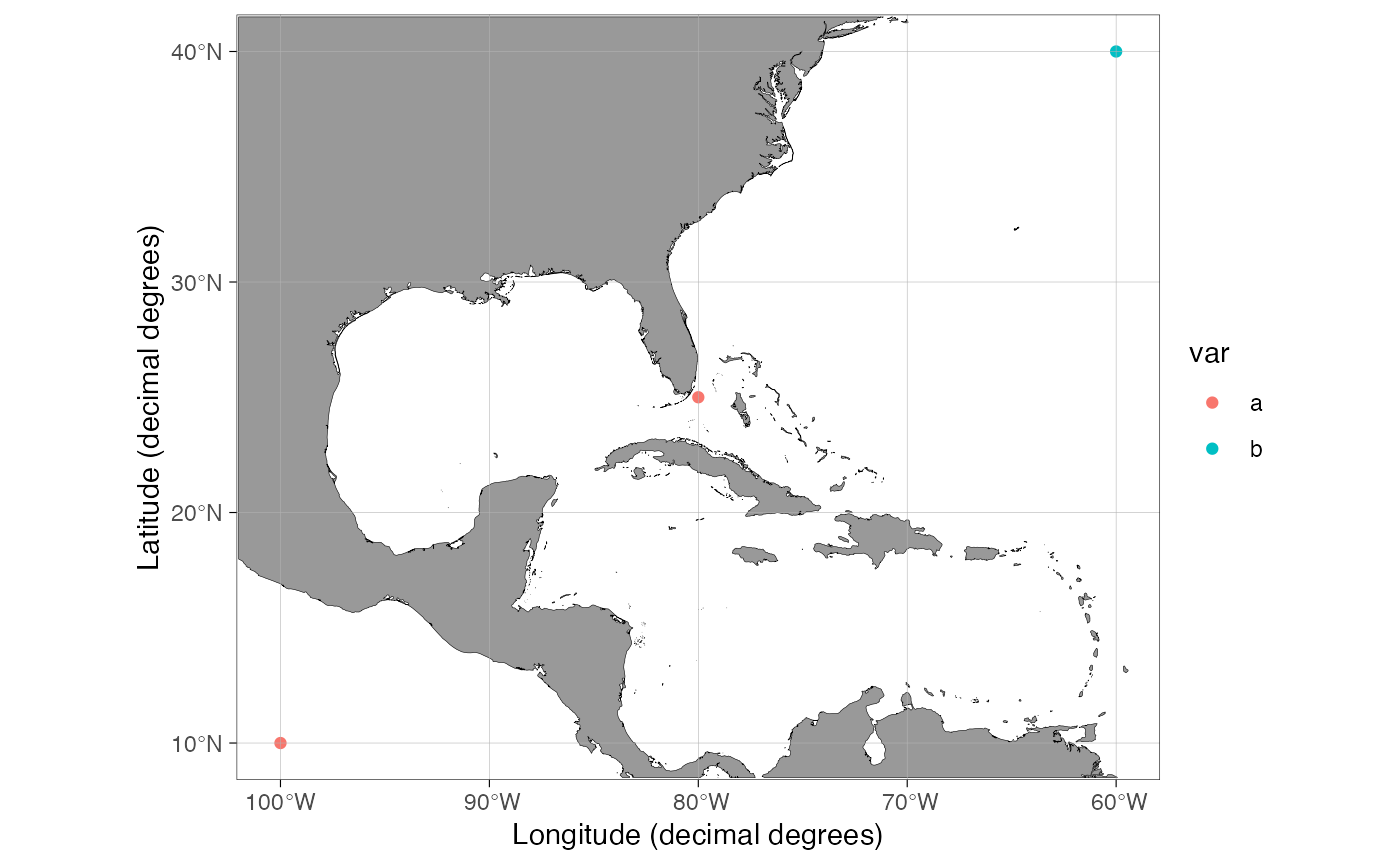
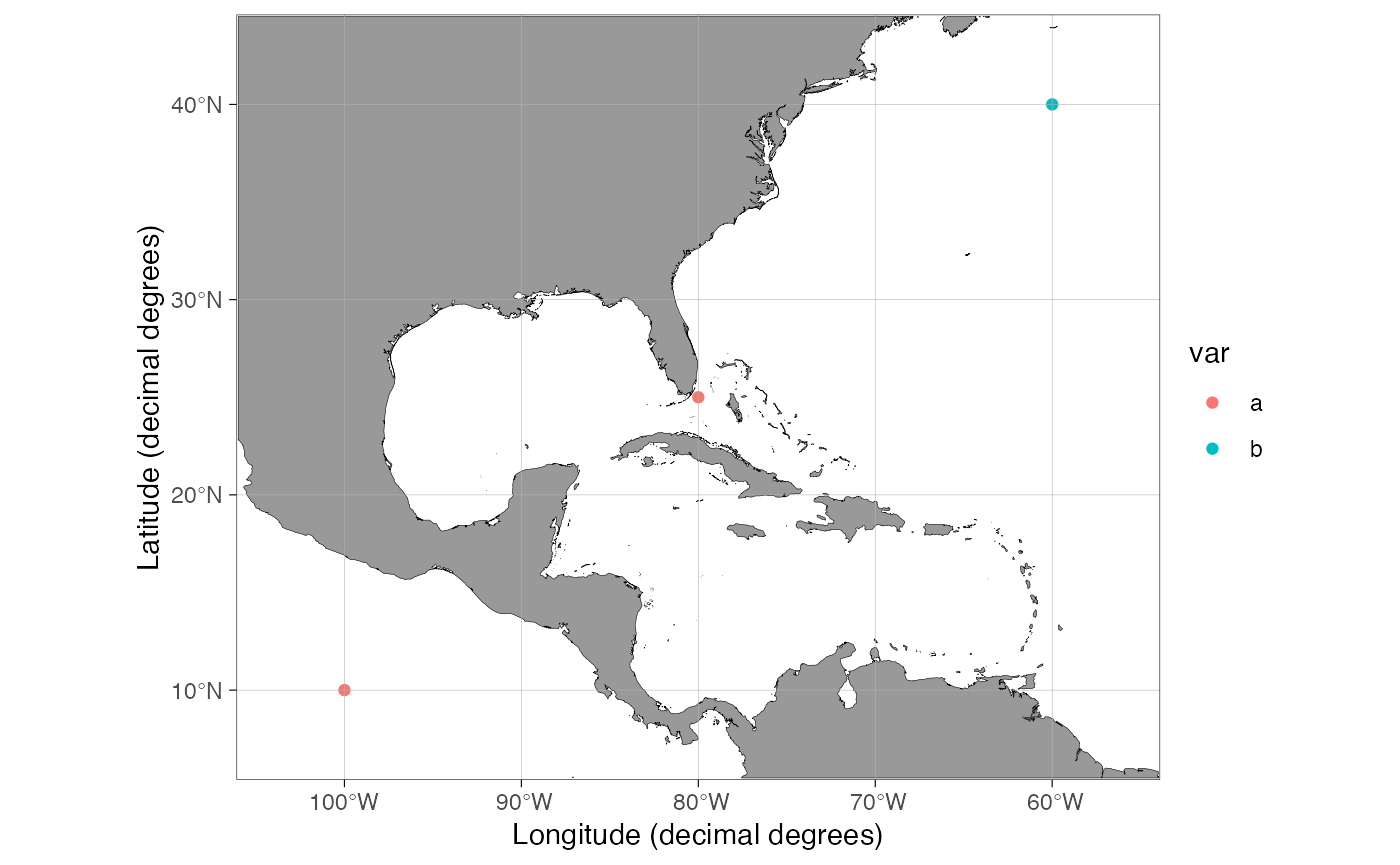
Update website

diff --git a/docs/articles/ggOceanMaps.html b/docs/articles/ggOceanMaps.html
@@ -31,7 +31,7 @@
       </button>
       <span class="navbar-brand">
         <a class="navbar-link" href="../index.html">ggOceanMaps</a>
-        <span class="version label label-default" data-toggle="tooltip" data-placement="bottom" title="Released version">1.1.8</span>
+        <span class="version label label-default" data-toggle="tooltip" data-placement="bottom" title="Released version">1.1.9</span>
       </span>
     </div>
 
@@ -88,7 +88,7 @@
       <h1 data-toc-skip>ggOceanMaps User Manual</h1>
                         <h4 class="author">Mikko Vihtakari (Institute of Marine Research)</h4>
             
-            <h4 class="date">31 May, 2021</h4>
+            <h4 class="date">01 June, 2021</h4>
       
       <small class="dont-index">Source: <a href="https://github.com/MikkoVihtakari/ggOceanMaps/blob/master/vignettes/ggOceanMaps.Rmd"><code>vignettes/ggOceanMaps.Rmd</code></a></small>
       <div class="hidden name"><code>ggOceanMaps.Rmd</code></div>
@@ -200,12 +200,13 @@
 <div id="quick-map" class="section level2">
 <h2 class="hasAnchor">
 <a href="#quick-map" class="anchor"></a>Quick map</h2>
-<p>The <code>qmap</code> function is designed as a shortcut to quickly take a look at a spatial dataset similar to the ggplot’s <a href="https://ggplot2.tidyverse.org/reference/qplot.html"><code>qplot</code></a> function. This function is supposed to automatically detect the type of data fed into the function and plot a map using appropriate geometries, limits, and projection. The function has not been developed properly yet and requires user feedback and testing.</p>
+<p>The <code>qmap</code> function is designed as a shortcut to quickly take a look at a spatial dataset similar to the ggplot’s <a href="https://ggplot2.tidyverse.org/reference/qplot.html"><code>qplot</code></a> function. This function is supposed to automatically detect the type of data fed into the function and plot a map using appropriate geometries, limits, and projection. You can use the <code>expand.factor</code> argument to adjust the automatic zoom into <code>data</code>. Note that too large <code>expand.factor</code> values will lead to errors.</p>
 <div class="sourceCode" id="cb16"><pre class="downlit sourceCode r">
-<code class="sourceCode R"><span class="fu"><a href="../reference/qmap.html">qmap</a></span><span class="op">(</span><span class="va">dt</span>, color <span class="op">=</span> <span class="fu"><a href="https://rdrr.io/r/base/AsIs.html">I</a></span><span class="op">(</span><span class="st">"red"</span><span class="op">)</span><span class="op">)</span> <span class="co"># set color</span></code></pre></div>
+<code class="sourceCode R"><span class="va">dt</span> <span class="op">&lt;-</span> <span class="fu"><a href="https://rdrr.io/r/base/data.frame.html">data.frame</a></span><span class="op">(</span>lon <span class="op">=</span> <span class="fu"><a href="https://rdrr.io/r/base/c.html">c</a></span><span class="op">(</span><span class="op">-</span><span class="fl">100</span>, <span class="op">-</span><span class="fl">80</span>, <span class="op">-</span><span class="fl">60</span><span class="op">)</span>, lat <span class="op">=</span> <span class="fu"><a href="https://rdrr.io/r/base/c.html">c</a></span><span class="op">(</span><span class="fl">10</span>, <span class="fl">25</span>, <span class="fl">40</span><span class="op">)</span>, var <span class="op">=</span> <span class="fu"><a href="https://rdrr.io/r/base/c.html">c</a></span><span class="op">(</span><span class="st">"a"</span>, <span class="st">"a"</span>, <span class="st">"b"</span><span class="op">)</span><span class="op">)</span>
+<span class="fu"><a href="../reference/qmap.html">qmap</a></span><span class="op">(</span><span class="va">dt</span>, color <span class="op">=</span> <span class="fu"><a href="https://rdrr.io/r/base/AsIs.html">I</a></span><span class="op">(</span><span class="st">"red"</span><span class="op">)</span><span class="op">)</span> <span class="co"># set color</span></code></pre></div>
 <p><img src="ggOceanMaps_files/figure-html/unnamed-chunk-17-1.png" width="700"></p>
 <div class="sourceCode" id="cb17"><pre class="downlit sourceCode r">
-<code class="sourceCode R"><span class="fu"><a href="../reference/qmap.html">qmap</a></span><span class="op">(</span><span class="va">dt</span>, color <span class="op">=</span> <span class="va">var</span><span class="op">)</span> <span class="co"># map color</span></code></pre></div>
+<code class="sourceCode R"><span class="fu"><a href="../reference/qmap.html">qmap</a></span><span class="op">(</span><span class="va">dt</span>, color <span class="op">=</span> <span class="va">var</span>, expand.factor <span class="op">=</span> <span class="fl">1.3</span><span class="op">)</span> <span class="co"># map color, zoom out</span></code></pre></div>
 <p><img src="ggOceanMaps_files/figure-html/unnamed-chunk-17-2.png" width="700"></p>
 </div>
 <div id="detailed-maps" class="section level2">
@@ -535,7 +536,7 @@
 <span class="co">#&gt; To cite package 'ggOceanMaps' in publications use:</span>
 <span class="co">#&gt; </span>
 <span class="co">#&gt;   Mikko Vihtakari (2021). ggOceanMaps: Plot Data on Oceanographic Maps</span>
-<span class="co">#&gt;   using 'ggplot2'. R package version 1.1.8.</span>
+<span class="co">#&gt;   using 'ggplot2'. R package version 1.1.9.</span>
 <span class="co">#&gt;   https://mikkovihtakari.github.io/ggOceanMaps/</span>
 <span class="co">#&gt; </span>
 <span class="co">#&gt; A BibTeX entry for LaTeX users is</span>
@@ -544,7 +545,7 @@
 <span class="co">#&gt;     title = {ggOceanMaps: Plot Data on Oceanographic Maps using 'ggplot2'},</span>
 <span class="co">#&gt;     author = {Mikko Vihtakari},</span>
 <span class="co">#&gt;     year = {2021},</span>
-<span class="co">#&gt;     note = {R package version 1.1.8},</span>
+<span class="co">#&gt;     note = {R package version 1.1.9},</span>
 <span class="co">#&gt;     url = {https://mikkovihtakari.github.io/ggOceanMaps/},</span>
 <span class="co">#&gt;   }</span></code></pre></div>
 </div>

diff --git a/docs/index.html b/docs/index.html
@@ -39,7 +39,7 @@
       </button>
       <span class="navbar-brand">
         <a class="navbar-link" href="index.html">ggOceanMaps</a>
-        <span class="version label label-default" data-toggle="tooltip" data-placement="bottom" title="Released version">1.1.8</span>
+        <span class="version label label-default" data-toggle="tooltip" data-placement="bottom" title="Released version">1.1.9</span>
       </span>
     </div>
 
@@ -95,7 +95,7 @@
 <div id="ggoceanmaps" class="section level1">
 <div class="page-header"><h1 class="hasAnchor">
 <a href="#ggoceanmaps" class="anchor"></a>ggOceanMaps</h1></div>
-<p><strong>Plot data on oceanographic maps using ggplot2. R package version 1.1.8</strong></p>
+<p><strong>Plot data on oceanographic maps using ggplot2. R package version 1.1.9</strong></p>
 <p><a href="https://zenodo.org/badge/latestdoi/254818056"><img src="https://zenodo.org/badge/254818056.svg" alt="DOI"></a> <a href="https://cran.r-project.org/package=ggOceanMaps"><img src="https://www.r-pkg.org/badges/version/ggOceanMaps" alt="CRAN_Status_Badge"></a></p>
 <!-- **Important information, June 2021:** ggplot2 and ggOceanMaps are now fully shifting to the [PROJ6/GDAL3 system](https://cran.r-project.org/web/packages/rgdal/vignettes/PROJ6_GDAL3.html). This means that old versions of the package, including all shapefiles, **may not work any longer**. Update your R to >=4.1, ggplot2 to >=3.3.4, ggOceanMapsData and ggOceanMaps to >=1.2, sf, sp, rgeos, raster packages, and delete all files inside your ggOceanMapsLargeData folder to make the package work again. Deeply sorry for the inconvenience :(  -->
 <div id="overview" class="section level2">
@@ -168,7 +168,7 @@
 <span class="co">#&gt; To cite package 'ggOceanMaps' in publications use:</span>
 <span class="co">#&gt; </span>
 <span class="co">#&gt;   Mikko Vihtakari (2021). ggOceanMaps: Plot Data on Oceanographic Maps</span>
-<span class="co">#&gt;   using 'ggplot2'. R package version 1.1.8.</span>
+<span class="co">#&gt;   using 'ggplot2'. R package version 1.1.9.</span>
 <span class="co">#&gt;   https://mikkovihtakari.github.io/ggOceanMaps/</span>
 <span class="co">#&gt; </span>
 <span class="co">#&gt; A BibTeX entry for LaTeX users is</span>
@@ -177,7 +177,7 @@
 <span class="co">#&gt;     title = {ggOceanMaps: Plot Data on Oceanographic Maps using 'ggplot2'},</span>
 <span class="co">#&gt;     author = {Mikko Vihtakari},</span>
 <span class="co">#&gt;     year = {2021},</span>
-<span class="co">#&gt;     note = {R package version 1.1.8},</span>
+<span class="co">#&gt;     note = {R package version 1.1.9},</span>
 <span class="co">#&gt;     url = {https://mikkovihtakari.github.io/ggOceanMaps/},</span>
 <span class="co">#&gt;   }</span></code></pre></div>
 </div>

diff --git a/docs/reference/index.html b/docs/reference/index.html
@@ -71,7 +71,7 @@
       </button>
       <span class="navbar-brand">
         <a class="navbar-link" href="../index.html">ggOceanMaps</a>
-        <span class="version label label-default" data-toggle="tooltip" data-placement="bottom" title="Released version">1.1.8</span>
+        <span class="version label label-default" data-toggle="tooltip" data-placement="bottom" title="Released version">1.1.9</span>
       </span>
     </div>
 
@@ -214,7 +214,7 @@
       <tr>
         <th colspan="2">
           <h2 id="section-create-bathymetries-and-shapefiles" class="hasAnchor"><a href="#section-create-bathymetries-and-shapefiles" class="anchor"></a>Create bathymetries and shapefiles</h2>
-          <p class="section-desc"><p>Custom bathymetry shapes can be added using the <code>raster_bathymetry</code> and <code>vector_bathymetry</code> functions in this order. The underlying data can be retrieved from the <a href="https://doi.org/10.7289/V5C8276M">ETOPO1</a> or <a href="https://www.gebco.net/data_and_products/gridded_bathymetry_data/gebco_2019/gebco_2019_info.html">GEBCO</a> repositories. The <code>clip_shapefile</code> function can be used to crop already existing SpatialPolygons.</p></p>
+          <p class="section-desc"><p>Custom bathymetry shapes can be added using the <code>raster_bathymetry</code> and <code>vector_bathymetry</code> functions in this order. The underlying data can be retrieved from the <a href="https://doi.org/10.7289/V5C8276M">ETOPO1</a>, <a href="https://www.gebco.net/data_and_products/gridded_bathymetry_data/gebco_2019/gebco_2019_info.html">GEBCO</a>, or <a href="https://www.gebco.net/data_and_products/gridded_bathymetry_data/arctic_ocean/">IBCAO</a> repositories. Already existing <a href="https://kartkatalog.geonorge.no/metadata/kartverket/dybdedata/2751aacf-5472-4850-a208-3532a51c529a">Geonorge</a> bathymetries can be opened and added to the <code>shapefiles</code> argument as <code><a href="https://rdrr.io/r/base/list.html">list(bathy =)</a></code>. The <code>clip_shapefile</code> function can be used to crop already existing SpatialPolygons.</p></p>
         </th>
       </tr>
       
@@ -234,6 +234,12 @@
           <p><code><a href="vector_bathymetry.html">vector_bathymetry()</a></code> </p>
         </td>
         <td><p>Create a polygon bathymetry from a raster bathymetry file</p></td>
+      </tr><tr>
+        
+        <td>
+          <p><code><a href="geonorge_bathymetry.html">geonorge_bathymetry()</a></code> </p>
+        </td>
+        <td><p>Open Geonorge bathymetry shapefiles</p></td>
       </tr><tr>
         
         <td>

diff --git a/docs/reference/geonorge_bathymetry.html b/docs/reference/geonorge_bathymetry.html
@@ -72,7 +72,7 @@
       </button>
       <span class="navbar-brand">
         <a class="navbar-link" href="../index.html">ggOceanMaps</a>
-        <span class="version label label-default" data-toggle="tooltip" data-placement="bottom" title="Released version">1.1.8</span>
+        <span class="version label label-default" data-toggle="tooltip" data-placement="bottom" title="Released version">1.1.9</span>
       </span>
     </div>
 
@@ -163,7 +163,7 @@
     <p>An <a href='https://r-spatial.github.io/sf/reference/st.html'>sf</a> or <code>sp</code> object containing the depth polygons. Uses same projection than <code>bathy</code> (see <code><a href='https://r-spatial.github.io/sf/reference/st_crs.html'>CRS</a></code>).</p>
     <h2 class="hasAnchor" id="details"><a class="anchor" href="#details"></a>Details</h2>
 
-    <p>You can download the bathymetry polygon shapefiles from <a href='https://kartkatalog.geonorge.no/metadata/kartverket/dybdedata/2751aacf-5472-4850-a208-3532a51c529a'>Geonorge</a>.</p>
+    <p>You can download the bathymetry polygon shapefiles from <a href='https://kartkatalog.geonorge.no/metadata/kartverket/dybdedata/2751aacf-5472-4850-a208-3532a51c529a'>Geonorge</a>. Download the file in <code>GLM</code> format.</p>
     <h2 class="hasAnchor" id="see-also"><a class="anchor" href="#see-also"></a>See also</h2>
 
     <div class='dont-index'><p>Other create shapefiles: 

diff --git a/docs/news/index.html b/docs/news/index.html
@@ -71,7 +71,7 @@
       </button>
       <span class="navbar-brand">
         <a class="navbar-link" href="../index.html">ggOceanMaps</a>
-        <span class="version label label-default" data-toggle="tooltip" data-placement="bottom" title="Released version">1.1.8</span>
+        <span class="version label label-default" data-toggle="tooltip" data-placement="bottom" title="Released version">1.1.9</span>
       </span>
     </div>
 
@@ -143,7 +143,7 @@
 </li>
 <li>Added the possiblity to adjust <code>data</code> limits using the <code>expand.factor</code> parameter in <code><a href="../reference/basemap.html">basemap()</a></code> and <code><a href="../reference/qmap.html">qmap()</a></code>
 </li>
-<li>Improved the user manual</li>
+<li>Improved the user manual and website.</li>
 <li>
 <a href="https://github.com/MikkoVihtakari/ggOceanMaps/issues/2">Fixed an issue with other than decimal degree input rasters</a> in <code><a href="../reference/raster_bathymetry.html">raster_bathymetry()</a></code>
 </li>

diff --git a/docs/articles/index.html b/docs/articles/index.html
@@ -71,7 +71,7 @@
       </button>
       <span class="navbar-brand">
         <a class="navbar-link" href="../index.html">ggOceanMaps</a>
-        <span class="version label label-default" data-toggle="tooltip" data-placement="bottom" title="Released version">1.1.8</span>
+        <span class="version label label-default" data-toggle="tooltip" data-placement="bottom" title="Released version">1.1.9</span>
       </span>
     </div>
 

diff --git a/docs/404.html b/docs/404.html
@@ -71,7 +71,7 @@
       </button>
       <span class="navbar-brand">
         <a class="navbar-link" href="index.html">ggOceanMaps</a>
-        <span class="version label label-default" data-toggle="tooltip" data-placement="bottom" title="Released version">1.1.8</span>
+        <span class="version label label-default" data-toggle="tooltip" data-placement="bottom" title="Released version">1.1.9</span>
       </span>
     </div>
 

diff --git a/docs/LICENSE-text.html b/docs/LICENSE-text.html
@@ -71,7 +71,7 @@
       </button>
       <span class="navbar-brand">
         <a class="navbar-link" href="index.html">ggOceanMaps</a>
-        <span class="version label label-default" data-toggle="tooltip" data-placement="bottom" title="Released version">1.1.8</span>
+        <span class="version label label-default" data-toggle="tooltip" data-placement="bottom" title="Released version">1.1.9</span>
       </span>
     </div>
 

diff --git a/docs/authors.html b/docs/authors.html
@@ -71,7 +71,7 @@
       </button>
       <span class="navbar-brand">
         <a class="navbar-link" href="index.html">ggOceanMaps</a>
-        <span class="version label label-default" data-toggle="tooltip" data-placement="bottom" title="Released version">1.1.8</span>
+        <span class="version label label-default" data-toggle="tooltip" data-placement="bottom" title="Released version">1.1.9</span>
       </span>
     </div>
 

diff --git a/README.md b/README.md
@@ -2,7 +2,7 @@
 # ggOceanMaps
 
 **Plot data on oceanographic maps using ggplot2. R package version
-1.1.8**
+1.1.9**
 
 [![DOI](https://zenodo.org/badge/254818056.svg)](https://zenodo.org/badge/latestdoi/254818056)
 [![CRAN\_Status\_Badge](https://www.r-pkg.org/badges/version/ggOceanMaps)](https://cran.r-project.org/package=ggOceanMaps)
@@ -189,7 +189,7 @@ citation("ggOceanMaps")
 #> To cite package 'ggOceanMaps' in publications use:
 #> 
 #>   Mikko Vihtakari (2021). ggOceanMaps: Plot Data on Oceanographic Maps
-#>   using 'ggplot2'. R package version 1.1.8.
+#>   using 'ggplot2'. R package version 1.1.9.
 #>   https://mikkovihtakari.github.io/ggOceanMaps/
 #> 
 #> A BibTeX entry for LaTeX users is
@@ -198,7 +198,7 @@ citation("ggOceanMaps")
 #>     title = {ggOceanMaps: Plot Data on Oceanographic Maps using 'ggplot2'},
 #>     author = {Mikko Vihtakari},
 #>     year = {2021},
-#>     note = {R package version 1.1.8},
+#>     note = {R package version 1.1.9},
 #>     url = {https://mikkovihtakari.github.io/ggOceanMaps/},
 #>   }
 ```

diff --git a/NEWS.md b/NEWS.md
@@ -7,7 +7,7 @@
 * Moved the `rgdal` package from Imports to Suggests.
 * Added `geonorge_bathymetry()`
 * Added the possiblity to adjust `data` limits using the `expand.factor` parameter in `basemap()` and `qmap()`
-* Improved the user manual
+* Improved the user manual and website.
 * [Fixed an issue with other than decimal degree input rasters](https://github.com/MikkoVihtakari/ggOceanMaps/issues/2) in `raster_bathymetry()`
 * [Fixed an issue with ggplot2 (>=3.3.4)](https://github.com/MikkoVihtakari/ggOceanMaps/issues/3)
          
